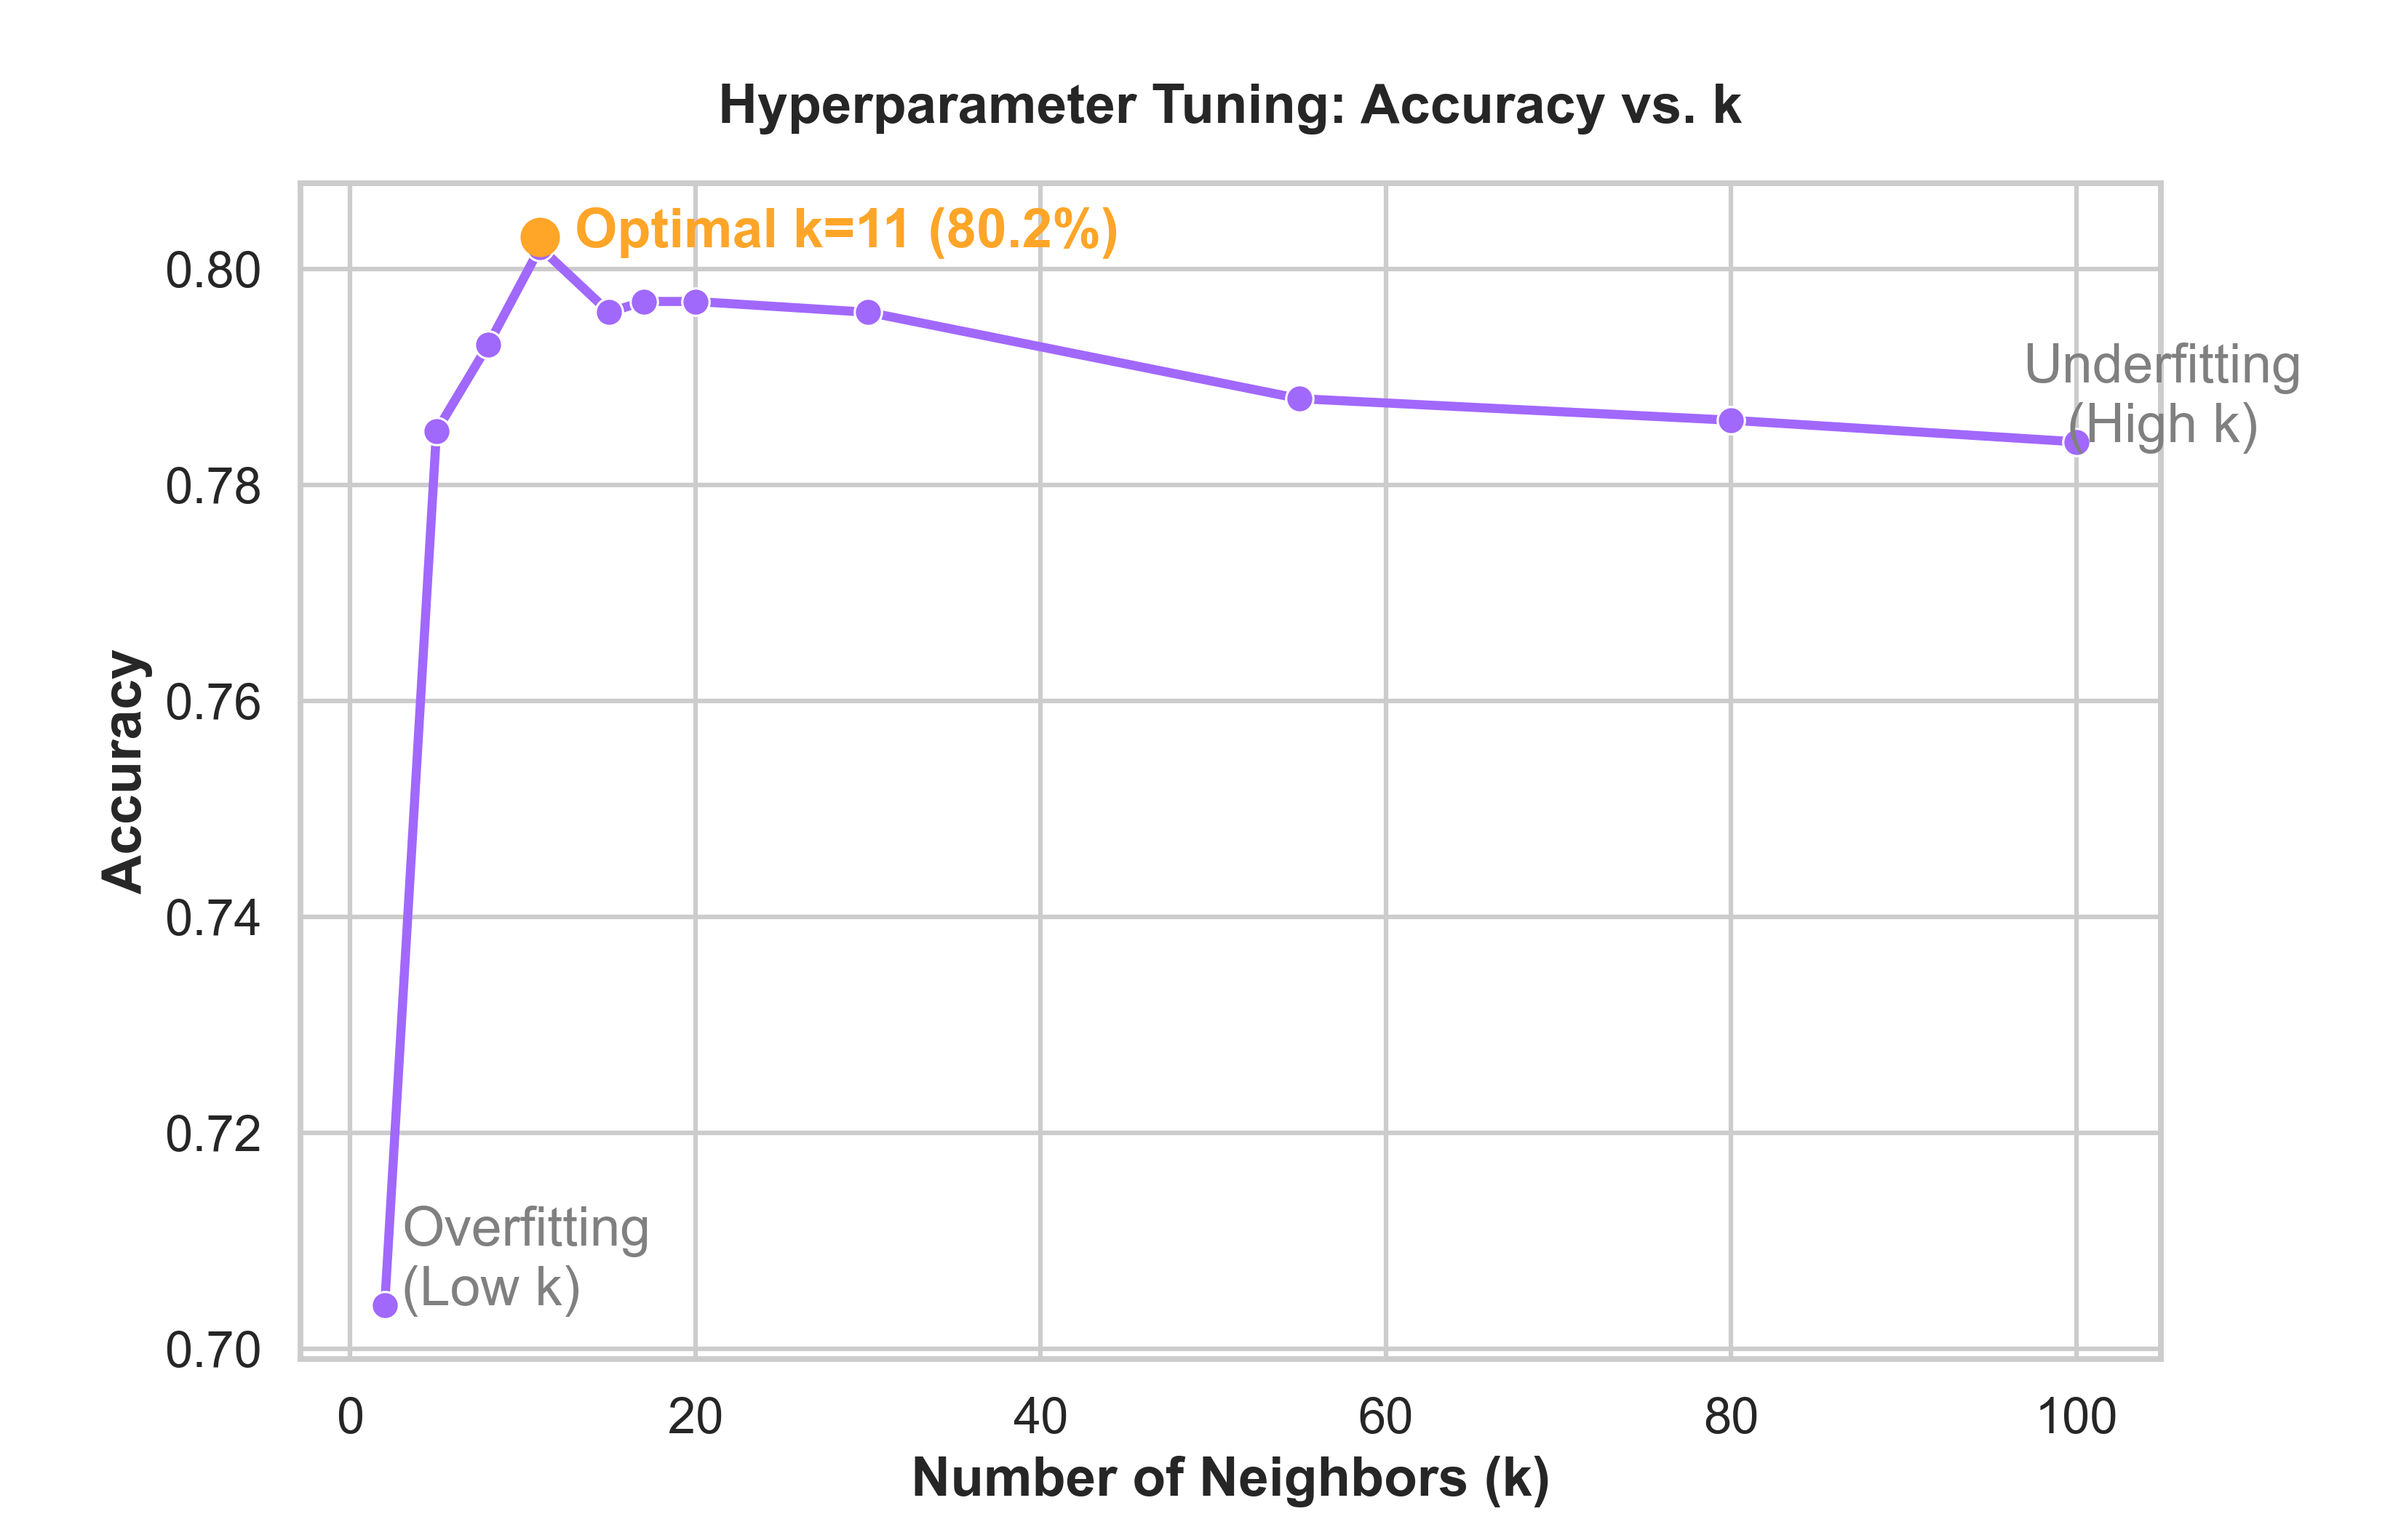
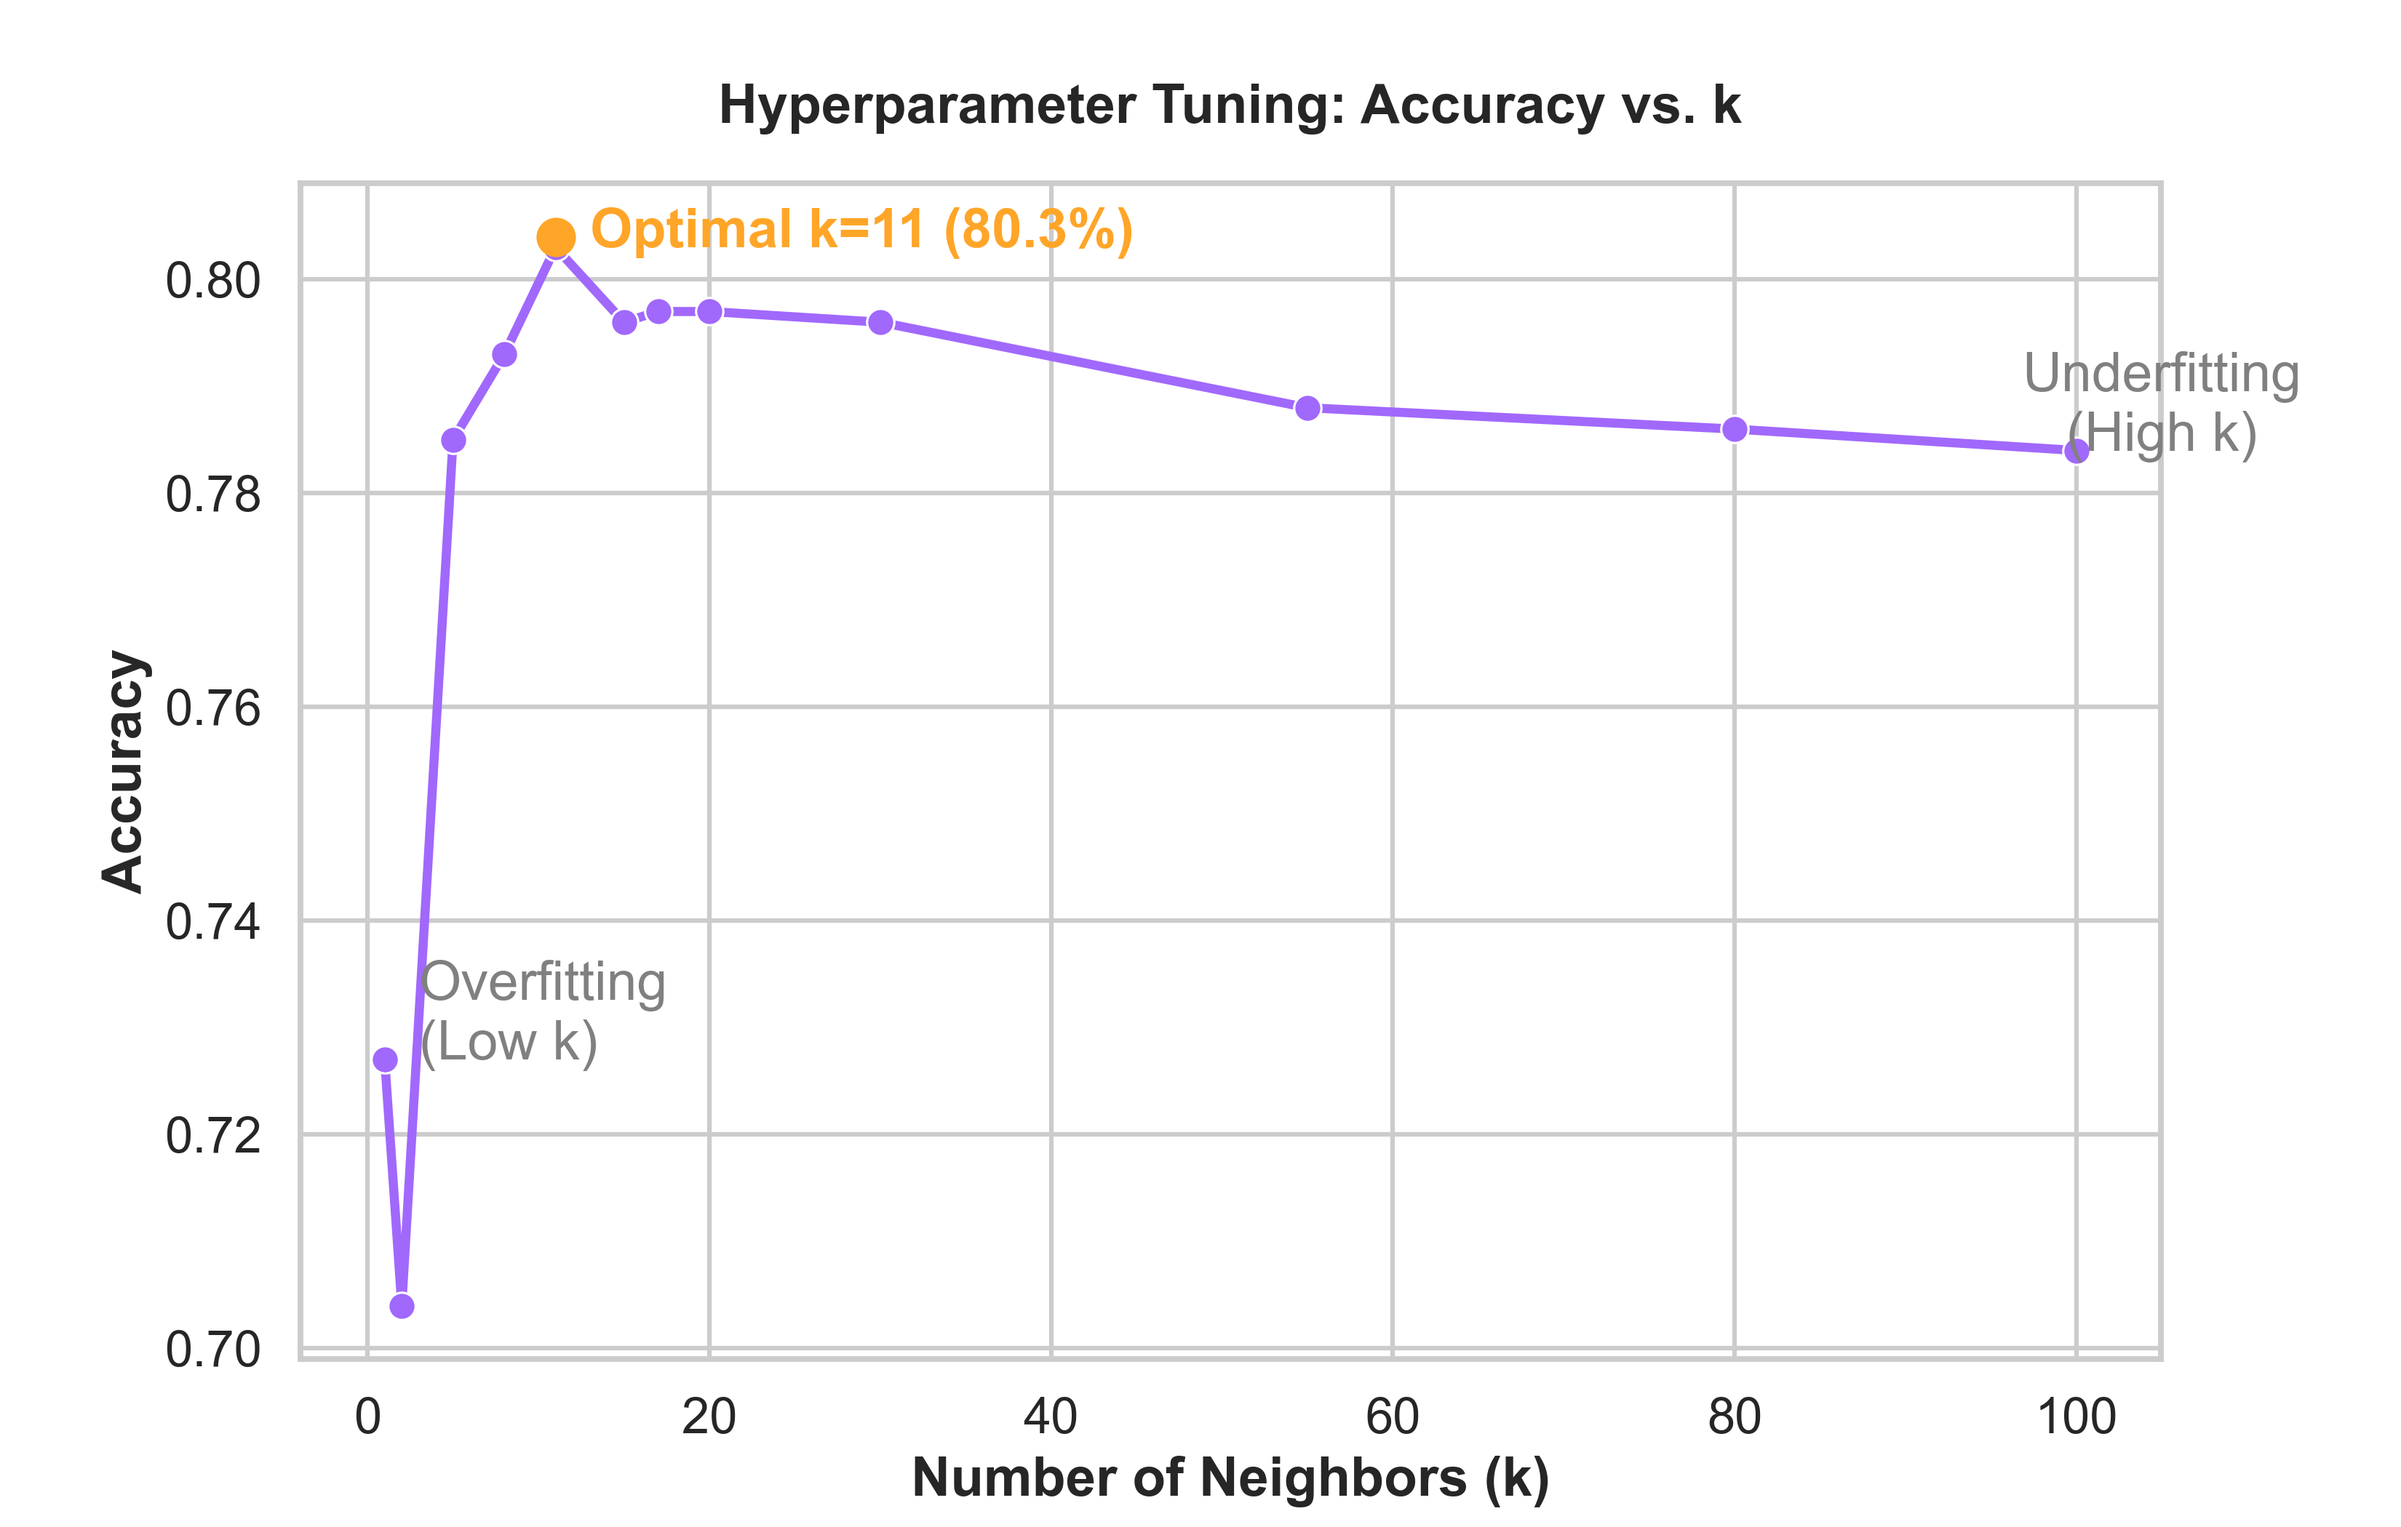
#8 final result chart generation

diff --git a/documents/tuning_chart.py b/documents/tuning_chart.py
@@ -9,8 +9,8 @@ sns.set_theme(style="whitegrid", context="talk")
 def generate_hyperparameter_tuning():
     
     # from the results: low at 2, peak at 10, drop at 100
-    k_values = [2, 5, 8, 11, 15, 17, 20, 30, 55, 80, 100]
-    accuracies = [0.704, 0.785, 0.793, 0.802, 0.796, 0.797, 0.797, 0.796, 0.788, 0.786, 0.784]
+    k_values = [1, 2, 5, 8, 11, 15, 17, 20, 30, 55, 80, 100]
+    accuracies = [0.704, .704, 0.785, 0.793, 0.803, 0.796, 0.797, 0.797, 0.796, 0.788, 0.786, 0.784]
     
     df_tune = pd.DataFrame({'k': k_values, 'Accuracy': accuracies})
 
@@ -18,8 +18,8 @@ def generate_hyperparameter_tuning():
     sns.lineplot(x='k', y='Accuracy', data=df_tune, marker='o', linewidth=3, color='#A168FC')
 
     # Highlight Peak
-    plt.plot(11, 0.803, marker='o', markersize=12, color='#FFA528')
-    plt.text(13, 0.802, "Optimal k=11 (80.2%)", color='#FFA528', fontweight='bold')
+    plt.plot(11, 0.804, marker='o', markersize=12, color='#FFA528')
+    plt.text(13, 0.803, "Optimal k=11 (80.3%)", color='#FFA528', fontweight='bold')
 
     plt.title("Hyperparameter Tuning: Accuracy vs. k", fontweight='bold', pad=20)
     plt.xlabel("Number of Neighbors (k)", fontweight='bold')

diff --git a/documents/all_accuracy_comparison.py b/documents/all_accuracy_comparison.py
@@ -1,0 +1,32 @@
+import seaborn as sns
+import matplotlib.pyplot as plt
+import pandas as pd
+
+sns.set_theme(style="whitegrid", context="talk")
+
+def plot_final_comparison():
+    # define the Data
+    data = {
+        'Model': ['1-NN', 'Optimized k-NN (k=11)', 'Decision Tree (CART)'],
+        'Accuracy': [0.73, 0.808, 0.82],
+        'Color': ['#FFA528', '#A168FC', '#9BBB59']
+    }
+    df = pd.DataFrame(data)
+
+    plt.figure(figsize=(10, 6))
+    ax = sns.barplot(x="Model", y="Accuracy", data=df, hue="Model", palette=data['Color'], legend=False)
+    ax.set_ylim(0.70, 0.85) 
+    
+    ax.set_title("Final Model Comparison: Accuracy on Test Set", fontweight='bold', pad=20)
+    ax.set_ylabel("Accuracy Score", fontweight='bold')
+    ax.set_xlabel("") # No x-label needed as categories are clear
+
+    for i, v in enumerate(df['Accuracy']):
+        ax.text(i, v + 0.002, f"{v:.1%}", ha='center', fontweight='bold', fontsize=14)
+
+    plt.tight_layout()
+    plt.savefig('final_results_chart.png', dpi=300)
+    print("Chart saved as final_results_chart.png")
+
+if __name__ == "__main__":
+    plot_final_comparison()

diff --git a/product/default_of_credit_card_clients_knn.py b/product/default_of_credit_card_clients_knn.py
@@ -200,7 +200,7 @@ def credit_card_knn():
   # ****Grid Search Start****
   # k values from 2 to 100
   # for manual grid search loop
-  k_values = list(range(2, 101)) 
+  k_values = list(range(1, 101)) 
   best_k = 3
   best_accuracy = 0
     
@@ -244,8 +244,6 @@ def credit_card_knn():
     
   print("\n---------------- RESULTS ----------------")
   print(f"The best k:", best_k)
-  print("Predicted labels (first 10): ", y_pred[:10])
-  print("Actual labels (first 10):    ", y_test[:10])
   print("Accuracy score:", accuracy_score)
   print("Error rate:",error_rate)
 
